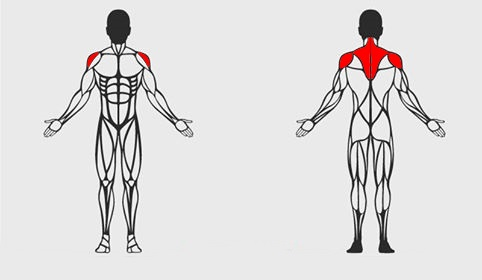
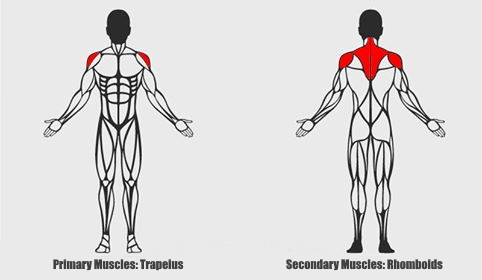
pics

Changed region(s): [[0.5913, 0.9143, 0.9336, 0.9714], [0.0934, 0.9143, 0.4046, 0.9714]]

diff --git a/html/lifts/facepull.html b/html/lifts/facepull.html
@@ -27,7 +27,7 @@
 		<div class="pic">
   		<img src="../../img/lifts/facepull.jpg">
   		</div>	
-  		<figcaption>Primary Muscles: Rear Delts,<br>Secondary Muscles: </figcaption>
+  		
 	</figure>
 
 	<h3 class="de">Description</h3>
@@ -35,11 +35,11 @@
 
 
 	<h4 class="Inst">Instructions</h4>
-	<p class="desc1">Step 1: Standing with your knees slightly bent and feet shoulder width apart grab the rope with an underhand grip, with your thumbs up.<br><br>
+	<p class="desc1">Step 1: Standing with your knees slightly bent and feet shoulder width apart grab the rope <br>with an underhand grip, with your thumbs up.<br><br>
 
-	Step 2: Take a few steps back from the tower to extend the cable. Keep a strong athletic stance, activating your core and glutes.<br><br>
+	Step 2: Take a few steps back from the tower to extend the cable. Keep a strong athletic <br>stance, activating your core and glutes.<br><br>
 	
-	Step 3: Squeeze your shoulder blades together to pull the handles of the rope in toward your face. Hold the position for 2 seconds.<br><br>
+	Step 3: Squeeze your shoulder blades together to pull the handles of the rope in toward your <br>face. Hold the position for 2 seconds.<br><br>
 
 	Step 4: Return to the starting position, making sure to keep your shoulders up.</p>
 

diff --git a/html/lifts/lateralpulldown.html b/html/lifts/lateralpulldown.html
@@ -35,11 +35,11 @@
 
 
 	<h4 class="Inst">Instructions</h4>
-	<p class="desc1">Step 1: Sit at a lat pulldown station and grab the bar with an overhand grip that's just beyond shoulder width. Your arms should be sompletely straight and your torso upright.<br><br>
+	<p class="desc1">Step 1: Sit at a lat pulldown station and grab the bar with an overhand grip that's just<br> beyond shoulder width. Your arms should be sompletely straight and your torso upright.<br><br>
 
-	Step 2: Pull your shoulder blades down and back and bring the bar to your chest. Pause, then slowly return to the starting position.<br><br>
+	Step 2: Pull your shoulder blades down and back and bring the bar to your chest. <br> Pause, then slowly return to the starting position.<br><br>
 
-	Step 3: As you exhale, pull the machine lever as far as possible to the back of your thighs by flexing at the knees. Keep your torso stationary at all times. Hold the contracted position for a second.<br><br>
+	Step 3: As you exhale, pull the machine lever as far as possible to the back of <br> your thighs by flexing at the knees. Keep your torso stationary at all times. <br> Hold the contracted position for a second.<br><br>
 
 	Step 4: Slowly return to the starting position as you breathe in.</p>
 

diff --git a/html/lifts/calfraise.html b/html/lifts/calfraise.html
@@ -27,7 +27,7 @@
 		<div class="pic">
   		<img src="../../img/lifts/calfraise.jpg">
   		</div>
-  		<figcaption>Primary Muscles: Gastrocnemius,<br>Secondary Muscles: Soleus</figcaption>
+  	
 	</figure>
 
 	<h3 class="de">Description</h3>
@@ -35,11 +35,11 @@
 
 
 	<h4 class="Inst">Instructions</h4>
-	<p class="desc1">Step 1: Position yourself on a leg press machine with only the top half of your foot being on the platform ensuring not to lock your knees.<br><br>
+	<p class="desc1">Step 1: Position yourself on a leg press machine with only the top half of your foot being <br> on the platform ensuring not to lock your knees.<br><br>
 
-	Step 2: Push the platform away from you as if you were going to stand on your toes. Hold this position for about 2 seconds.<br><br>
+	Step 2: Push the platform away from you as if you were going to stand on your toes. <br> Hold this position for about 2 seconds.<br><br>
 	
-	Step 3: Allow the platform to come towards you by reversing the movement and allowing your foot to make a 80 degree angle with your shin.</p>
+	Step 3: Allow the platform to come towards you by reversing the movement <br> and allowing your foot to make a 80 degree angle with your shin.</p>
 
 	<h5 class="demo">Demonstration</h5>
 	<div class="gif">

diff --git a/html/lifts/inclinebenchpress.html b/html/lifts/inclinebenchpress.html
@@ -27,7 +27,6 @@
 		<div class="pic">
   		<img src="../../img/lifts/inclinebenchpress.jpg">
   		</div>
-  		<figcaption>Primary Muscles: Pectoralis Major, Triceps, Anterior Delt <br>Secondary Muscles: Lateral Delt</figcaption>
 	</figure>
 
 	<h3 class="de">Description</h3>
@@ -35,9 +34,9 @@
 
 
 	<h4 class="Inst">Instructions</h4>
-	<p class="desc1">Step 1: Position your body on an incline bench on a 30-45 degree angle. Grab a barbell with an overhand grip that's shoulder-width apart and hold it above your chest. Extend arms upward, locking out elbows.<br><br>
+	<p class="desc1">Step 1: Position your body on an incline bench on a 30-45 degree angle. Grab a barbell with <br> an overhand grip that's shoulder-width apart and hold it above your chest. Extend arms <br> upward, locking out elbows.<br><br>
 
-	Step 2: Lower the bar straight down in a slow, controlled movement to your chest. Pause, then press the bar in a straight line back up to the starting position.<br><br>
+	Step 2: Lower the bar straight down in a slow, controlled movement to your chest. Pause, <br> then press the bar in a straight line back up to the starting position.<br><br>
 	</p>
 
 	<h5 class="demo">Demonstration</h5>

diff --git a/html/lifts/benchpress.html b/html/lifts/benchpress.html
@@ -37,9 +37,9 @@
 
 
 	<h4 class="Inst">Instructions</h4>
-	<p class="desc1">Step 1: Lie on your back on a bench. Grasp a barbell with a overhand grip just wider than shoulder width apart and hold it above your chest with you arms fully extended.<br><br>
+	<p class="desc1">Step 1: Lie on your back on a bench. Grasp a barbell with a overhand grip just wider than shoulder <br> width apart and hold it above your chest with you arms fully extended.<br><br>
 
-	Step 2: Lower the bar straight down in controlled motion. Make sure you keep your elbows tucked in close to your body so your upper arms form a 45-degree angle to your body in the down position. Pause, and then press the bar in a straight line back up to the starting position. <br><br>
+	Step 2: Lower the bar straight down in controlled motion. Make sure you keep your elbows tucked <br> in close to your body so your upper arms form a 45-degree angle to your body in the down position. <br> Pause, and then press the bar in a straight line back up to the starting position. <br><br>
 
 	</p>
 

diff --git a/html/lifts/cablerows.html b/html/lifts/cablerows.html
@@ -29,7 +29,7 @@
 		<div class="pic">
   			<img src="../../img/lifts/cablerow.jpg">
   		</div>
-  		<figcaption>Primary Muscles: Lats & Trapezius<br>Secondary Muscles: Biceps & Rear Deltoids</figcaption>
+  		
 	</figure>
 
 	<h3 class="de">Description</h3>
@@ -37,9 +37,9 @@
 
 
 	<h4 class="Inst">Instructions</h4>
-	<p class="desc1">Step 1: Sit slightly forward on the platform and grasp the cable attachment. slide hips back, positioning your knees with a slight bend.<br><br>
+	<p class="desc1">Step 1: Sit slightly forward on the platform and grasp the cable attachment. slide hips back, <br> positioning your knees with a slight bend.<br><br>
 
-	Step 2: Pull the handle straight into your chest, bending at the elbow and squeezing your shoulder blades together. Remain upright throughout and do not sway during the movement.
+	Step 2: Pull the handle straight into your chest, bending at the elbow and squeezing your <br> shoulder blades together. Remain upright throughout and do not sway during the movement.
 
 	</p>
 

diff --git a/html/lifts/barbellshrugs.html b/html/lifts/barbellshrugs.html
@@ -29,7 +29,7 @@
 		<div class="pic">
   			<img src="../../img/lifts/barbellshrug.jpg">
   		</div>
-  		<figcaption>Primary Muscles: Trapeius<br>Secondary Muscles: Rhomboids</figcaption>
+  		
 	</figure>
 
 	<h3 class="de">Description</h2>
@@ -37,7 +37,7 @@
 
 
 	<h4 class="Inst">Instructions</h4>
-	<p class="desc1">Step 1: Standing with your feet shoulder-width apart, place a barbell in front of your thighs, hands shoulder-width apart, palms facing your body, and arms fully extended.<br><br>
+	<p class="desc1">Step 1: Standing with your feet shoulder-width apart, place a barbell in front of your thighs, hands <br> shoulder-width apart, palms facing your body, and arms fully extended.<br><br>
 
 	Step 2: Keeping your arms straight, shrug your shoulders as high as you can. Pasue, then lower to start postion.</p>
 	

diff --git a/html/lifts/dumbbellcurl.html b/html/lifts/dumbbellcurl.html
@@ -27,7 +27,7 @@
 		<div class="pic">
   		<img src="../../img/lifts/dumbbellcurl.jpg">
   		</div>
-  		<figcaption>Primary Muscles: Bicep<br>Secondary Muscles: N/A</figcaption>
+  	
 	</figure>
 
 	<h3 class="de">Description</h3>
@@ -35,7 +35,7 @@
 
 
 	<h4 class="Inst">Instructions</h4>
-	<p class="desc1">Step 1: Hold a dumbbell in each hand and stand with your feet as wide apart as your hips and let your arms hand down at your sides with your palms forward.<br><br>
+	<p class="desc1">Step 1: Hold a dumbbell in each hand and stand with your feet as wide apart as your hips and <br> let your arms hand down at your sides with your palms forward.<br><br>
 
 	Step 2: Pull your abdominals in, stand tall, and keep your knees slightly bent.<br><br>
 

diff --git a/html/lifts/dumbbelllateralraise.html b/html/lifts/dumbbelllateralraise.html
@@ -27,7 +27,7 @@
 		<div class="pic">
   		<img src="../../img/lifts/lateralraise.jpg">
   		</div>
-  		<figcaption>Primary Muscles: Lateral Deltoids<br>Secondary Muscles: Anterior Deltoids</figcaption>
+  		
 	</figure>
 
 	<h3 class="de">Description</h3>
@@ -35,7 +35,7 @@
 
 
 	<h4 class="Inst">Instructions</h4>
-	<p class="desc1">Step 1: Standing in a shoulder-width stance, grab a pair of dumbbells with palms facing inward and let then hang at your sides.<br><br>
+	<p class="desc1">Step 1: Standing in a shoulder-width stance, grab a pair of dumbbells with palms facing <br> inward and let then hang at your sides.<br><br>
 
 	Step 2: Rasie your arms out to the sides until they're at shoulder level.<br><br>
 
